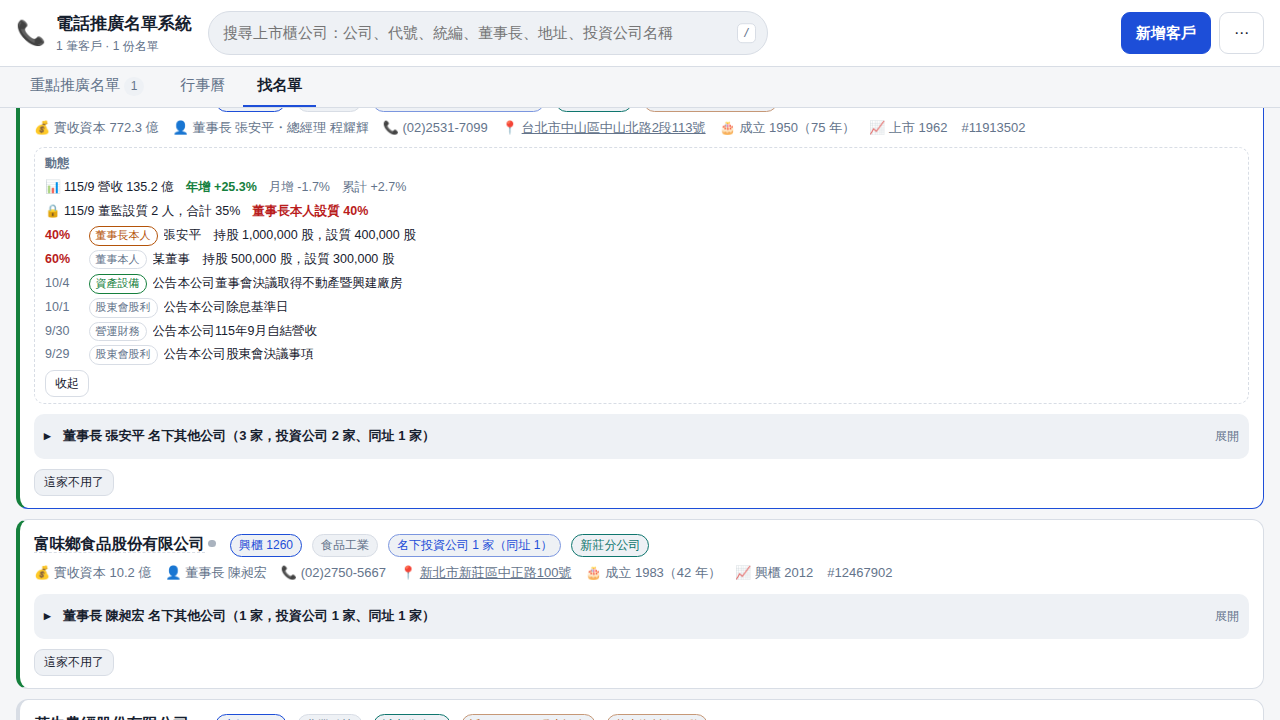
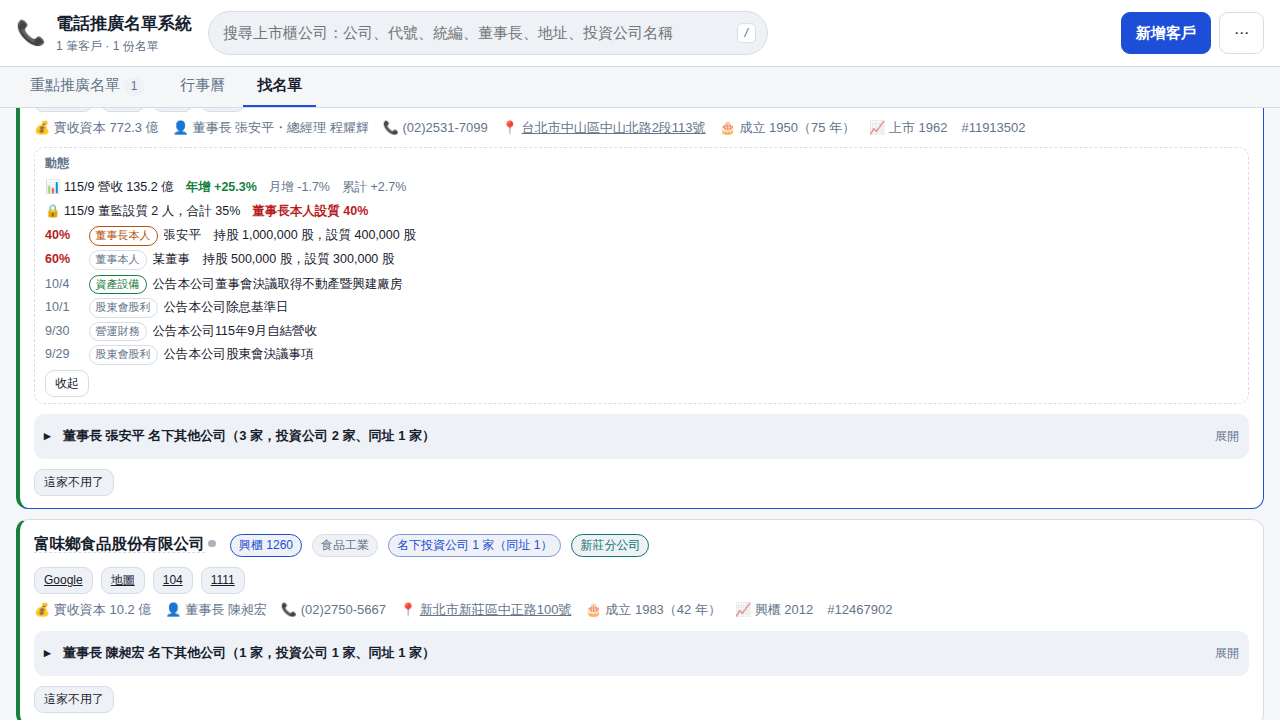
新名單分頁「已在名單　📝 記錄」：點了直接記這通電話；版本 286
Claude-Session: https://claude.ai/code/session_01Dzy844eqapM8HioFc9w195

Changed region(s): [[0.0, 0.7639, 0.6875, 1.0], [0.0625, 0.3667, 0.3125, 0.4278], [0.9375, 0.825, 0.9688, 0.9167]]

diff --git a/tests/e2e/test-source-log.js b/tests/e2e/test-source-log.js
@@ -1,0 +1,50 @@
+// 新名單分頁直接記錄（使用者：「我會在新名單找名單撥打電話，並且將它加入到重點名單，想即時編輯訪談內容都還要回到重點名單那搜尋」）：
+// 各來源分頁卡片上的「已在名單　📝 記錄」點了就打開名單上那一筆、捲到「記錄這通電話」、游標在內容框；存好就記在名單那一筆
+const { chromium } = require('playwright');
+const http=require('http'),fs=require('fs'),path=require('path');
+const ROOT=require('path').resolve(__dirname,'../..'),T={'.html':'text/html','.js':'text/javascript','.css':'text/css','.json':'application/json'};
+const srv=http.createServer((rq,rs)=>{const f=path.join(ROOT,rq.url==='/'?'index.html':decodeURIComponent(rq.url.split('?')[0]));
+ fs.readFile(f,(e,b)=>{if(e){rs.writeHead(404);return rs.end();}rs.writeHead(200,{'Content-Type':T[path.extname(f)]||'application/octet-stream'});rs.end(b);});}).listen(9583);
+const TODAY='2026-10-05';
+const HEAD='案件類別,登記編號,客戶統編,客戶名稱,金主統編,金主名稱,契約起,契約迄,擔保金額,標的物所在地,標的物件數,登記核准日,註銷日,成立日期';
+const ROWS=[
+ ['動產抵押登記','A1','40000001','已加入精密有限公司','20000001','新鑫股份有限公司','2026/08/01','2031/08/01','9000000','新北市新莊區中正路1號','1','','','108/01/01'],
+ ['動產抵押登記','A2','40000002','還沒加入有限公司','20000001','新鑫股份有限公司','2026/07/01','2031/07/01','5000000','新北市新莊區中正路2號','1','','','108/01/01'],
+];
+const CSV=''+[HEAD,...ROWS.map(r=>r.join(','))].join('\n')+'\n';
+const INDEX={generatedAt:'2026-10-01T02:00:00.000Z',dataThrough:'2026/09/01',total:ROWS.length,kept:ROWS.length,files:[{path:'ntpc.csv',rows:ROWS.length}]};
+const REC={id:'1',source:'每日新名單-2026-10-02.csv',company:'已加入精密有限公司',aliases:[],taxId:'40000001',grade:'',founded:'2019',capital:'5,000',phoneRaw:'02-2222-3331',phones:[{digits:'0222223331',ext:'',note:''}],owner:'',keyman:'',industry:'',address:'新北市新莊區中正路1號',city:'新北市',district:'新莊區',notesRaw:'動保：新鑫',timeline:[],outcome:'new',nextDate:'2026-10-05',lastDate:null,addedDate:'2026-10-02'};
+(async()=>{
+ let bad=0; const chk=(ok,m)=>{ if(!ok)bad++; console.log(`${ok?'PASS':'FAIL'} ${m}`); };
+ const br=await chromium.launch({executablePath:process.env.PW_CHROMIUM||undefined});
+ const ctx=await br.newContext({viewport:{width:1300,height:1000}});
+ await ctx.addInitScript(`{ const real=Date; window.__now=new real('${TODAY}T10:00:00').getTime();
+   class D extends real { constructor(...a){ if(!a.length) super(window.__now); else super(...a); } static now(){ return window.__now; } } Date=D; }`);
+ await ctx.addInitScript(()=>{try{localStorage.setItem('registry-auto','0'); localStorage.setItem('daily-feed-auto','0'); localStorage.setItem('auto-rebalance','0'); localStorage.setItem('rate-filter-default','0'); localStorage.setItem('leads-filters-open','1');}catch(e){}});
+ await ctx.route('**/leads/chattel/index.json*',r=>r.fulfill({status:200,contentType:'application/json',body:JSON.stringify(INDEX)}));
+ await ctx.route('**/leads/chattel/ntpc.csv*',r=>r.fulfill({status:200,contentType:'text/csv',body:CSV}));
+ await ctx.route('**/leads/trade/**',r=>r.fulfill({status:404,body:''}));
+ const pg=await ctx.newPage(); const errs=[]; pg.on('pageerror',e=>errs.push(e.message)); pg.on('dialog',d=>d.accept());
+ await pg.goto('http://localhost:9583/index.html'); await pg.waitForSelector('#dropzone'); await pg.click('#importer .drawer-close');
+ await pg.evaluate(async(r)=>{ await window.Store.saveRecords([r]); },REC);
+ await pg.reload(); await pg.waitForSelector('#btnImport'); await pg.waitForTimeout(600);
+ await pg.evaluate(()=>window.switchTab('chattel')); await pg.waitForSelector('#chattel-cards .card');
+ await pg.locator('#chattel-fDue .chip:has-text("全部")').click(); await pg.waitForTimeout(300);
+ const mineCard=pg.locator('#chattel-cards .card:has-text("已加入精密")');
+ const badge=mineCard.locator('.badge-mine.is-log');
+ chk(await badge.count()===1 && /已在名單・10\/2 加入.*📝 記錄/.test(await badge.textContent()), `已在名單那顆寫「📝 記錄」：${await badge.count() ? await badge.textContent() : '沒有'}`);
+ chk(await pg.locator('#chattel-cards .card:has-text("還沒加入") .badge-mine').count()===0, '還沒加入的沒有');
+ await badge.click(); await pg.waitForSelector('#drawerBody h2'); await pg.waitForTimeout(500);
+ chk(/已加入精密有限公司/.test(await pg.textContent('#drawerBody h2')), '打開名單上那一筆');
+ const focused=await pg.evaluate(()=>document.activeElement && document.activeElement.closest('.logform') ? document.activeElement.tagName : '');
+ chk(focused==='TEXTAREA', `游標直接在「記錄這通電話」的內容框：${focused}`);
+ await pg.keyboard.type('老闆接了，要週轉金 500 萬，下週再打');
+ await pg.click('#drawerBody button:has-text("儲存紀錄")'); await pg.waitForTimeout(600);
+ const v=await pg.evaluate(()=>{ const x=window.customerViews().find(v=>v.id==='1'); return x.outcome+'|'+x.lastDate; });
+ chk(v==='noanswer|2026-10-05' || v==='contacted|2026-10-05', `記在名單那一筆：${v}`);
+ const logs=await pg.evaluate(async()=>(await window.Store.allLogs()).filter(l=>l.recordId==='1').map(l=>l.text));
+ chk(logs.length===1 && /週轉金 500 萬/.test(logs[0]), `訪談內容存進去：${logs}`);
+ chk(errs.length===0, `沒有 JS 錯誤：${errs.join(' | ')}`);
+ console.log(bad?`\n${bad} 項失敗`:'\n全部通過');
+ await br.close(); srv.close(); process.exit(bad?1:0);
+})();

diff --git a/index.html b/index.html
@@ -14,10 +14,10 @@
 <meta name="mobile-web-app-capable" content="yes">
 <meta name="apple-mobile-web-app-title" content="電推名單">
 <meta name="apple-mobile-web-app-status-bar-style" content="default">
-<link rel="stylesheet" href="assets/css/app.css?v=20261005-285">
+<link rel="stylesheet" href="assets/css/app.css?v=20261005-286">
 <!-- 密碼鎖要在畫面畫出來之前就生效，不然會先閃一下內容 -->
 <style>html[data-locked] body > *:not(.lock-gate) { display: none !important; }</style>
-<script src="assets/js/lock.js?v=20261005-285"></script>
+<script src="assets/js/lock.js?v=20261005-286"></script>
 </head>
 <body data-theme="auto">
 
@@ -336,24 +336,24 @@
 
 <div id="toast" class="toast" hidden></div>
 
-<script src="assets/vendor/pdfjs/pdf.min.js?v=20261005-285"></script>
-<script src="assets/vendor/xlsx/xlsx.min.js?v=20261005-285"></script>
+<script src="assets/vendor/pdfjs/pdf.min.js?v=20261005-286"></script>
+<script src="assets/vendor/xlsx/xlsx.min.js?v=20261005-286"></script>
 <script src="assets/vendor/tesseract/tesseract.min.js"></script>
-<script src="assets/js/pdf-table.js?v=20261005-285"></script>
-<script src="assets/js/normalize.js?v=20261005-285"></script>
-<script src="assets/js/holidays.js?v=20261005-285"></script>
-<script src="assets/js/registry.js?v=20261005-285"></script>
-<script src="assets/js/ocr.js?v=20261005-285"></script>
-<script src="assets/js/rules.js?v=20261005-285"></script>
-<script src="assets/js/store.js?v=20261005-285"></script>
-<script src="assets/js/sync.js?v=20261005-285"></script>
-<script src="assets/js/leads.js?v=20261005-285"></script>
-<script src="assets/js/chattel.js?v=20261005-285"></script>
-<script src="assets/js/listed.js?v=20261005-285"></script>
-<script src="assets/js/biz.js?v=20261005-285"></script>
-<script src="assets/js/trade.js?v=20261005-285"></script>
-<script src="assets/js/nhi.js?v=20261005-285"></script>
-<script src="assets/js/einv.js?v=20261005-285"></script>
-<script src="assets/js/app.js?v=20261005-285"></script>
+<script src="assets/js/pdf-table.js?v=20261005-286"></script>
+<script src="assets/js/normalize.js?v=20261005-286"></script>
+<script src="assets/js/holidays.js?v=20261005-286"></script>
+<script src="assets/js/registry.js?v=20261005-286"></script>
+<script src="assets/js/ocr.js?v=20261005-286"></script>
+<script src="assets/js/rules.js?v=20261005-286"></script>
+<script src="assets/js/store.js?v=20261005-286"></script>
+<script src="assets/js/sync.js?v=20261005-286"></script>
+<script src="assets/js/leads.js?v=20261005-286"></script>
+<script src="assets/js/chattel.js?v=20261005-286"></script>
+<script src="assets/js/listed.js?v=20261005-286"></script>
+<script src="assets/js/biz.js?v=20261005-286"></script>
+<script src="assets/js/trade.js?v=20261005-286"></script>
+<script src="assets/js/nhi.js?v=20261005-286"></script>
+<script src="assets/js/einv.js?v=20261005-286"></script>
+<script src="assets/js/app.js?v=20261005-286"></script>
 </body>
 </html>

diff --git a/assets/js/listed.js b/assets/js/listed.js
@@ -25,6 +25,8 @@
 
   let root = null;
   const $ = (sel) => root.querySelector(sel);
+  // 「已在名單　📝 記錄」：打開名單上那一筆、直接捲到「記錄這通電話」（使用者：在新名單打完電話不用再回重點名單搜尋）
+  const openLog = (id) => { if (typeof global.openCustomerLog === 'function') global.openCustomerLog(id); else if (typeof global.openCustomer === 'function') global.openCustomer(id); };
   const el = (tag, props, children) => {
     const n = document.createElement(tag);
     Object.entries(props || {}).forEach(([k, v]) => { if (k.includes('-')) n.setAttribute(k, v); else n[k] = v; });
@@ -237,7 +239,7 @@
       x.listed ? el('span', { className: 'badge', textContent: '也是上市櫃公司' }) : '',
       mine ? (declined(mine)
         ? el('span', { className: 'badge badge-own', textContent: '名單上是禁止推廣' })
-        : el('span', { className: 'badge badge-mine', textContent: `已在名單${mine.lastDate ? `・上次 ${mmdd(mine.lastDate)}` : ''}` })) : '',
+        : el('span', { className: 'badge badge-mine is-log', textContent: `已在名單${mine.lastDate ? `・上次 ${mmdd(mine.lastDate)}` : ''}　📝 記錄`, title: '點一下打開名單上這一筆，直接記這通電話', onclick: () => openLog(mine.id) })) : '',
     ];
     const meta = el('span', { className: 'owner-meta', textContent: [
       x.capital ? `資本 ${money(thousandsToYuan(x.capital))}` : '',
@@ -262,7 +264,7 @@
       r.industry ? el('span', { className: 'badge badge-ind', textContent: r.industry }) : '',
       r.invest.length ? el('span', { className: 'badge badge-peer', textContent: `名下投資公司 ${r.invest.length} 家${r.sameSpot.length ? `（同址 ${r.sameSpot.length}）` : ''}` }) : '',
       r.branch.key && r.branch.kind ? el('span', { className: `badge badge-branch${r.branch.kind === 'common' ? ' badge-branch-common' : ''}`, textContent: r.branch.key, title: r.branch.label }) : '',
-      mine ? (declined(mine) ? el('span', { className: 'badge badge-own', textContent: '名單上是禁止推廣' }) : el('span', { className: 'badge badge-mine', textContent: `已在名單${mine.lastDate ? `・上次 ${mmdd(mine.lastDate)}` : ''}` })) : '',
+      mine ? (declined(mine) ? el('span', { className: 'badge badge-own', textContent: '名單上是禁止推廣' }) : el('span', { className: 'badge badge-mine is-log', textContent: `已在名單${mine.lastDate ? `・上次 ${mmdd(mine.lastDate)}` : ''}　📝 記錄`, title: '點一下打開名單上這一筆，直接記這通電話', onclick: () => openLog(mine.id) })) : '',
       r.recentNews ? el('span', { className: 'badge badge-dyn', textContent: `近 ${NEWS_DAYS} 天 ${r.recentNews} 則重大訊息` }) : '',
       r.dynKeys && r.dynKeys.has('basic') ? el('span', { className: 'badge badge-dyn', textContent: '基本資料有異動' }) : '',
     ]);

diff --git a/assets/js/nhi.js b/assets/js/nhi.js
@@ -22,6 +22,8 @@
 
   let root = null;
   const $ = (sel) => root.querySelector(sel);
+  // 「已在名單　📝 記錄」：打開名單上那一筆、直接捲到「記錄這通電話」（使用者：在新名單打完電話不用再回重點名單搜尋）
+  const openLog = (id) => { if (typeof global.openCustomerLog === 'function') global.openCustomerLog(id); else if (typeof global.openCustomer === 'function') global.openCustomer(id); };
   const csvCell = (v) => { const s = String(v == null ? '' : v); return /[",\n\r]/.test(s) ? `"${s.replace(/"/g, '""')}"` : s; };
   const parseCsv = (text) => (global.Leads && global.Leads.parseCsv ? global.Leads.parseCsv(text) : [[]]);
   const el = (tag, props, children) => {
@@ -185,7 +187,7 @@
       r.insMonths != null && r.insMonths < 3 ? el('span', { className: 'badge badge-up', textContent: '剛開始請人', title: '最近 3 個月才成立健保投保單位：剛開始幫員工投保' }) : '',
       r.years != null && r.years >= 1 ? el('span', { className: 'badge badge-ind', textContent: `成立 ${r.years} 年才投保`, title: '老公司第一次請員工（或換了投保單位）' }) : '',
       r.branch.key && r.branch.kind ? el('span', { className: `badge badge-branch${r.branch.kind === 'common' ? ' badge-branch-common' : ''}`, textContent: r.branch.key, title: r.branch.label }) : '',
-      mine ? (declined(mine) ? el('span', { className: 'badge badge-own', textContent: '名單上是禁止推廣' }) : el('span', { className: 'badge badge-mine', textContent: `已在名單${mine.addedDate ? `・${mmdd(mine.addedDate)} 加入` : ''}${mine.lastDate ? `・上次 ${mmdd(mine.lastDate)}` : ''}`, title: '哪天加進名單的（名單新增日期）；點一下打開名單上這一筆', onclick: () => { if (typeof global.openCustomer === 'function') global.openCustomer(mine.id); } })) : '',
+      mine ? (declined(mine) ? el('span', { className: 'badge badge-own', textContent: '名單上是禁止推廣' }) : el('span', { className: 'badge badge-mine is-log', textContent: `已在名單${mine.addedDate ? `・${mmdd(mine.addedDate)} 加入` : ''}${mine.lastDate ? `・上次 ${mmdd(mine.lastDate)}` : ''}　📝 記錄`, title: '點一下打開名單上這一筆，直接記這通電話', onclick: () => openLog(mine.id) })) : '',
     ]);
     const meta = el('div', { className: 'card-meta' }, [
       r.tel ? el('span', {}, ['📞 ', el('a', { href: `tel:${r.tel.replace(/[^\d+#]/g, '')}`, textContent: r.tel }), el('small', { className: 'muted', textContent: isMobile(r.tel) ? '（出進口登記，手機，多半是老闆本人）' : '（出進口登記）' })]) : el('span', { className: 'muted', textContent: '📞 健保檔沒有電話' }),

diff --git a/assets/js/einv.js b/assets/js/einv.js
@@ -23,6 +23,8 @@
 
   let root = null;
   const $ = (sel) => root.querySelector(sel);
+  // 「已在名單　📝 記錄」：打開名單上那一筆、直接捲到「記錄這通電話」（使用者：在新名單打完電話不用再回重點名單搜尋）
+  const openLog = (id) => { if (typeof global.openCustomerLog === 'function') global.openCustomerLog(id); else if (typeof global.openCustomer === 'function') global.openCustomer(id); };
   const csvCell = (v) => { const s = String(v == null ? '' : v); return /[",\n\r]/.test(s) ? `"${s.replace(/"/g, '""')}"` : s; };
   const parseCsv = (text) => (global.Leads && global.Leads.parseCsv ? global.Leads.parseCsv(text) : [[]]);
   const el = (tag, props, children) => {
@@ -193,7 +195,7 @@
       r.kind ? el('span', { className: 'badge badge-ind', textContent: r.kind, title: r.kind === 'B2B' ? '開給公司的電子發票（做企業生意）' : '開給消費者的電子發票' }) : '',
       r.isNew && r.years != null && r.years >= 1 ? el('span', { className: 'badge badge-ind', textContent: `成立 ${r.years} 年才導入`, title: '老公司最近才開始開電子發票' }) : '',
       r.branch.key && r.branch.kind ? el('span', { className: `badge badge-branch${r.branch.kind === 'common' ? ' badge-branch-common' : ''}`, textContent: r.branch.key, title: r.branch.label }) : '',
-      mine ? (declined(mine) ? el('span', { className: 'badge badge-own', textContent: '名單上是禁止推廣' }) : el('span', { className: 'badge badge-mine', textContent: `已在名單${mine.addedDate ? `・${mmdd(mine.addedDate)} 加入` : ''}${mine.lastDate ? `・上次 ${mmdd(mine.lastDate)}` : ''}`, title: '哪天加進名單的（名單新增日期）；點一下打開名單上這一筆', onclick: () => { if (typeof global.openCustomer === 'function') global.openCustomer(mine.id); } })) : '',
+      mine ? (declined(mine) ? el('span', { className: 'badge badge-own', textContent: '名單上是禁止推廣' }) : el('span', { className: 'badge badge-mine is-log', textContent: `已在名單${mine.addedDate ? `・${mmdd(mine.addedDate)} 加入` : ''}${mine.lastDate ? `・上次 ${mmdd(mine.lastDate)}` : ''}　📝 記錄`, title: '點一下打開名單上這一筆，直接記這通電話', onclick: () => openLog(mine.id) })) : '',
     ]);
     const meta = el('div', { className: 'card-meta' }, [
       r.tel ? el('span', {}, ['📞 ', el('a', { href: `tel:${r.tel.replace(/[^\d+#]/g, '')}`, textContent: r.tel }), el('small', { className: 'muted', textContent: isMobile(r.tel) ? '（出進口登記，手機，多半是老闆本人）' : '（出進口登記）' })]) : el('span', { className: 'muted', textContent: '📞 清單沒有電話' }),

diff --git a/assets/js/trade.js b/assets/js/trade.js
@@ -21,6 +21,8 @@
 
   let root = null;
   const $ = (sel) => root.querySelector(sel);
+  // 「已在名單　📝 記錄」：打開名單上那一筆、直接捲到「記錄這通電話」（使用者：在新名單打完電話不用再回重點名單搜尋）
+  const openLog = (id) => { if (typeof global.openCustomerLog === 'function') global.openCustomerLog(id); else if (typeof global.openCustomer === 'function') global.openCustomer(id); };
   const csvCell = (v) => { const s = String(v == null ? '' : v); return /[",\n\r]/.test(s) ? `"${s.replace(/"/g, '""')}"` : s; };
   const parseCsv = (text) => (global.Leads && global.Leads.parseCsv ? global.Leads.parseCsv(text) : [[]]);
   const el = (tag, props, children) => {
@@ -228,7 +230,7 @@
       r.firstMonths != null && r.firstMonths < 6 ? el('span', { className: 'badge badge-up', textContent: '新登記', title: '原始登記在 6 個月內：剛開始做進出口' }) : '',
       el('span', { className: 'badge badge-ind', textContent: QUAL.find(([k]) => k === qualOf(r))[1] }),
       r.branch.key && r.branch.kind ? el('span', { className: `badge badge-branch${r.branch.kind === 'common' ? ' badge-branch-common' : ''}`, textContent: r.branch.key, title: r.branch.label }) : '',
-      mine ? (declined(mine) ? el('span', { className: 'badge badge-own', textContent: '名單上是禁止推廣' }) : el('span', { className: 'badge badge-mine', textContent: `已在名單${mine.addedDate ? `・${mmdd(mine.addedDate)} 加入` : ''}${mine.lastDate ? `・上次 ${mmdd(mine.lastDate)}` : ''}`, title: '哪天加進名單的（名單新增日期）；點一下打開名單上這一筆', onclick: () => { if (typeof global.openCustomer === 'function') global.openCustomer(mine.id); } })) : '',
+      mine ? (declined(mine) ? el('span', { className: 'badge badge-own', textContent: '名單上是禁止推廣' }) : el('span', { className: 'badge badge-mine is-log', textContent: `已在名單${mine.addedDate ? `・${mmdd(mine.addedDate)} 加入` : ''}${mine.lastDate ? `・上次 ${mmdd(mine.lastDate)}` : ''}　📝 記錄`, title: '點一下打開名單上這一筆，直接記這通電話', onclick: () => openLog(mine.id) })) : '',
     ]);
     const meta = el('div', { className: 'card-meta' }, [
       r.tel ? el('span', {}, ['📞 ', el('a', { href: `tel:${r.tel.replace(/[^\d+#]/g, '')}`, textContent: r.tel }), isMobile(r.tel) ? el('small', { className: 'muted', textContent: '（手機，多半是老闆本人）' }) : '']) : el('span', { className: 'muted', textContent: '📞 登記上沒有電話' }),

diff --git a/assets/js/biz.js b/assets/js/biz.js
@@ -41,6 +41,8 @@
 
   let root = null;
   const $ = (sel) => root.querySelector(sel);
+  // 「已在名單　📝 記錄」：打開名單上那一筆、直接捲到「記錄這通電話」（使用者：在新名單打完電話不用再回重點名單搜尋）
+  const openLog = (id) => { if (typeof global.openCustomerLog === 'function') global.openCustomerLog(id); else if (typeof global.openCustomer === 'function') global.openCustomer(id); };
   const csvCell = (v) => { const s = String(v == null ? '' : v); return /[",\n\r]/.test(s) ? `"${s.replace(/"/g, '""')}"` : s; };
   const parseCsv = (text) => (global.Leads && global.Leads.parseCsv ? global.Leads.parseCsv(text) : [[]]);
   const el = (tag, props, children) => {
@@ -270,7 +272,7 @@
       r.branch.key && r.branch.kind ? el('span', { className: `badge badge-branch${r.branch.kind === 'common' ? ' badge-branch-common' : ''}`, textContent: r.branch.key, title: r.branch.label }) : '',
       r.invoice ? el('span', { className: 'badge badge-ind', textContent: '開發票' }) : '',
       hasPhone(r) ? el('span', { className: 'badge badge-ind', textContent: phoneKindsOf(r).has('M') ? '📞 手機（多半是老闆本人）' : '📞 有電話', title: '貿易署出進口廠商登記裡有電話，加入名單時會自動填' }) : '',
-      mine ? (declined(mine) ? el('span', { className: 'badge badge-own', textContent: '名單上是禁止推廣' }) : el('span', { className: 'badge badge-mine', textContent: `已在名單${mine.addedDate ? `・${mmdd(mine.addedDate)} 加入` : ''}${mine.lastDate ? `・上次 ${mmdd(mine.lastDate)}` : ''}`, title: '哪天加進名單的（名單新增日期）；點一下打開名單上這一筆', onclick: () => { if (typeof global.openCustomer === 'function') global.openCustomer(mine.id); } })) : '',
+      mine ? (declined(mine) ? el('span', { className: 'badge badge-own', textContent: '名單上是禁止推廣' }) : el('span', { className: 'badge badge-mine is-log', textContent: `已在名單${mine.addedDate ? `・${mmdd(mine.addedDate)} 加入` : ''}${mine.lastDate ? `・上次 ${mmdd(mine.lastDate)}` : ''}　📝 記錄`, title: '點一下打開名單上這一筆，直接記這通電話', onclick: () => openLog(mine.id) })) : '',
     ]);
     const fp = foundOf(r);
     const meta = el('div', { className: 'card-meta' }, [

diff --git a/assets/js/chattel.js b/assets/js/chattel.js
@@ -37,6 +37,8 @@
 
   let root = null;
   const $ = (sel) => root.querySelector(sel);
+  // 「已在名單　📝 記錄」：打開名單上那一筆、直接捲到「記錄這通電話」（使用者：在新名單打完電話不用再回重點名單搜尋）
+  const openLog = (id) => { if (typeof global.openCustomerLog === 'function') global.openCustomerLog(id); else if (typeof global.openCustomer === 'function') global.openCustomer(id); };
   const el = (tag, props, children) => {
     const n = document.createElement(tag);
     Object.entries(props || {}).forEach(([k, v]) => { if (k.includes('-')) n.setAttribute(k, v); else n[k] = v; });
@@ -311,7 +313,7 @@
     const phoneBadge = hasPhone(r) ? el('span', { className: 'badge badge-ind', textContent: phoneKindsOf(r).has('M') ? '📞 手機（多半是老闆本人）' : '📞 有電話', title: '貿易署出進口廠商登記裡有電話，加入名單時會自動填' }) : '';
     const mineBadge = !mine ? '' : declined(mine)
       ? el('span', { className: 'badge badge-own', textContent: `名單上是禁止推廣${mine.lastDate ? `・${mmdd(mine.lastDate)}` : ''}` })
-      : el('span', { className: 'badge badge-mine', textContent: `已在名單${mine.addedDate ? `・${mmdd(mine.addedDate)} 加入` : ''}${mine.lastDate ? `・上次 ${mmdd(mine.lastDate)}` : ''}${mine.nextDate ? `・下次 ${mmdd(mine.nextDate)}` : ''}`, title: '哪天加進名單的（名單新增日期）' });
+      : el('span', { className: 'badge badge-mine is-log', textContent: `已在名單${mine.addedDate ? `・${mmdd(mine.addedDate)} 加入` : ''}${mine.lastDate ? `・上次 ${mmdd(mine.lastDate)}` : ''}${mine.nextDate ? `・下次 ${mmdd(mine.nextDate)}` : ''}　📝 記錄`, title: '點一下打開名單上這一筆，直接記這通電話', onclick: () => openLog(mine.id) });
     const name = el('span', { className: 'card-name' }, [r.cust.id
       ? el('a', { href: global.Normalize.findbizUrl(r.cust.id, r.cust.name), target: '_blank', rel: 'noopener', textContent: r.cust.name || r.cust.id, title: '商工登記公示資料（開新分頁）' })   // 債務人是商行時走用統編查的結果頁
       : document.createTextNode(r.cust.name || '（沒有名稱）'), copyName(r.cust.name || '')]);

diff --git a/assets/js/leads.js b/assets/js/leads.js
@@ -34,6 +34,8 @@
 
   let root = null;
   const $ = (sel) => root.querySelector(sel);
+  // 「已在名單　📝 記錄」：打開名單上那一筆、直接捲到「記錄這通電話」（使用者：在新名單打完電話不用再回重點名單搜尋）
+  const openLog = (id) => { if (typeof global.openCustomerLog === 'function') global.openCustomerLog(id); else if (typeof global.openCustomer === 'function') global.openCustomer(id); };
   const el = (tag, props, children) => {
     const n = document.createElement(tag);
     Object.entries(props || {}).forEach(([k, v]) => { if (k.includes('-')) n.setAttribute(k, v); else n[k] = v; });
@@ -397,7 +399,7 @@
     const mine = c ? mineOf(r, c.cm) : null;
     const mineBadge = !mine ? '' : declined(mine)
       ? el('span', { className: 'badge badge-own', textContent: `名單上禁止推廣${mine.lastDate ? `・${mmdd(mine.lastDate)}` : ''}` })
-      : el('span', { className: 'badge badge-mine', textContent: `已在名單${mine.addedDate ? `・${mmdd(mine.addedDate)} 加入` : ''}${mine.lastDate ? `・上次 ${mmdd(mine.lastDate)}` : ''}${mine.nextDate ? `・下次 ${mmdd(mine.nextDate)}` : ''}`, title: '哪天加進名單的（名單新增日期）；點一下打開名單上這一筆', onclick: () => { if (typeof global.openCustomer === 'function') global.openCustomer(mine.id); } })
+      : el('span', { className: 'badge badge-mine is-log', textContent: `已在名單${mine.addedDate ? `・${mmdd(mine.addedDate)} 加入` : ''}${mine.lastDate ? `・上次 ${mmdd(mine.lastDate)}` : ''}${mine.nextDate ? `・下次 ${mmdd(mine.nextDate)}` : ''}　📝 記錄`, title: '點一下打開名單上這一筆，直接記這通電話', onclick: () => openLog(mine.id) })
     const reasonBadge = r.type === 'setup' ? el('span', { className: 'badge badge-new', textContent: '新設立' })
       : r.rk === 'up' ? el('span', { className: 'badge badge-up', textContent: r.reason })
         : r.rk === 'down' ? el('span', { className: 'badge badge-down', textContent: r.reason })

diff --git a/assets/js/app.js b/assets/js/app.js
@@ -9,7 +9,7 @@
    * 靜態主機會把 js/css 快取起來，沒有版本號的話使用者更新後還是拿到舊檔案。
    * index.html 的每個 assets 網址都帶 ?v=，改版時一起換掉這個字串即可。
    */
-  const APP_VERSION = '20261005-285';
+  const APP_VERSION = '20261005-286';
   const TAX_LABEL = { yes: '有統編', no: '無統編' };
   const PHONE_LABEL = { yes: '有電話', no: '無電話' };
   // 變更登記：商工登記查核時發現的異動。一家公司可以同時有好幾種（增資＋負責人異動）
@@ -8675,6 +8675,7 @@ export default {
      */
     window.customerViews = () => allViews();
     window.openCustomer = (id) => openDetail(id);
+    window.openCustomerLog = (id) => openDetail(id, { log: true });   // 各來源分頁「已在名單　📝 記錄」
     // 加進來的新名單要排哪一天（照上限與新名單額度）；每日自動挑用的靜默匯入（不開匯入抽屜）
     window.planNewDates = planNewDates;
     window.splitEvenly = splitEvenly;   // 測試用

diff --git a/assets/css/app.css b/assets/css/app.css
@@ -1118,3 +1118,6 @@ body.has-registry-bar .update-bar { bottom: 60px; }
 .tidy-row { margin: 4px 0; }
 .tidy-box { border: 1px dashed var(--border); border-radius: var(--radius); padding: 8px; margin: 6px 0; }
 .tidy-box .tidy-paste { width: 100%; box-sizing: border-box; }
+/* 各來源分頁「已在名單　📝 記錄」：點了直接記這通電話 */
+.badge-mine.is-log { cursor: pointer; }
+.badge-mine.is-log:hover { text-decoration: underline; }
